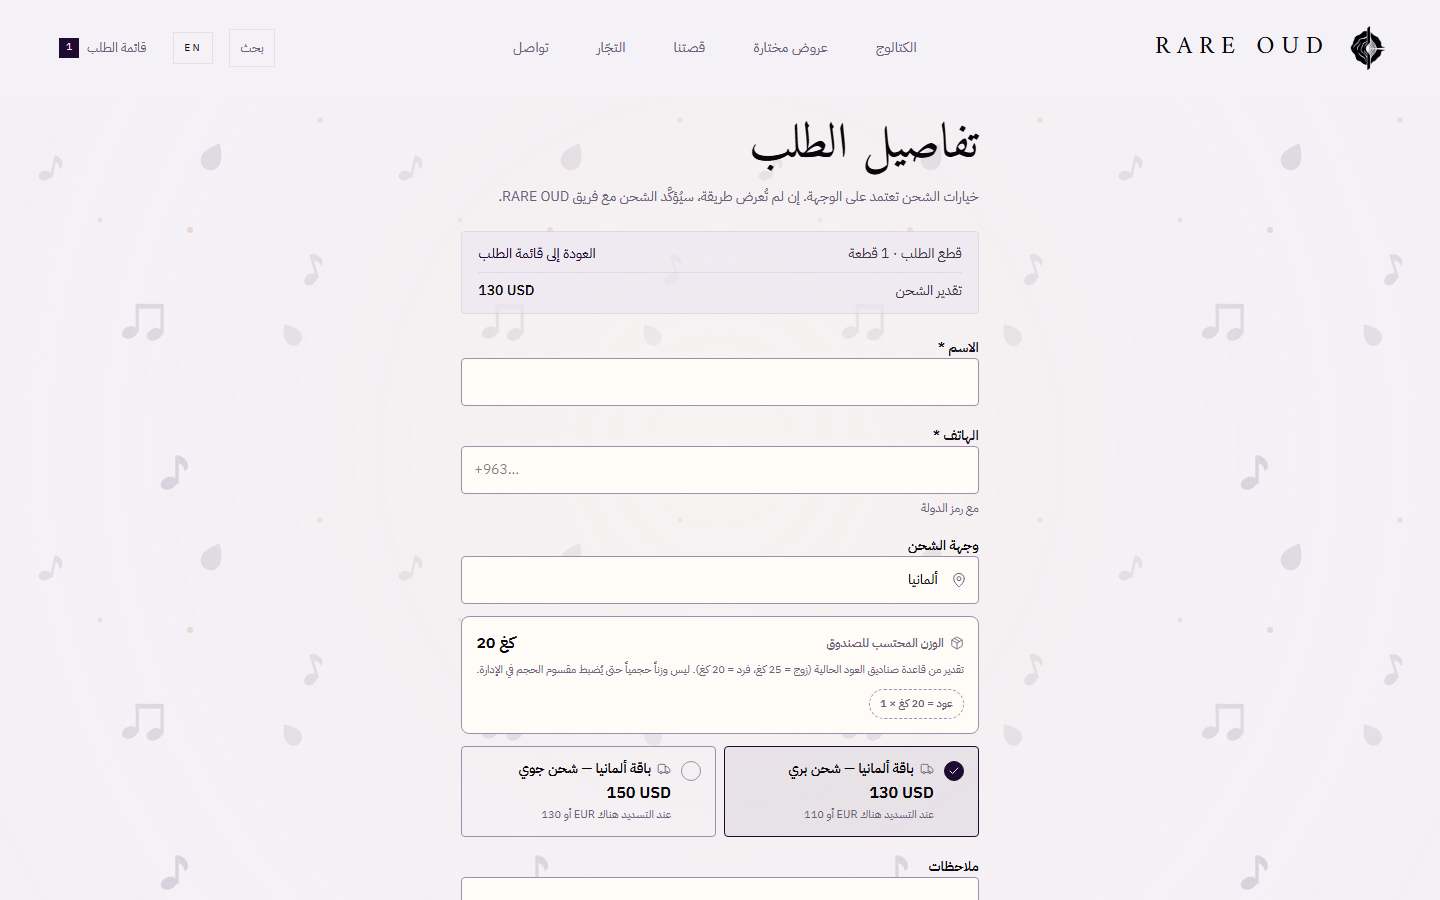
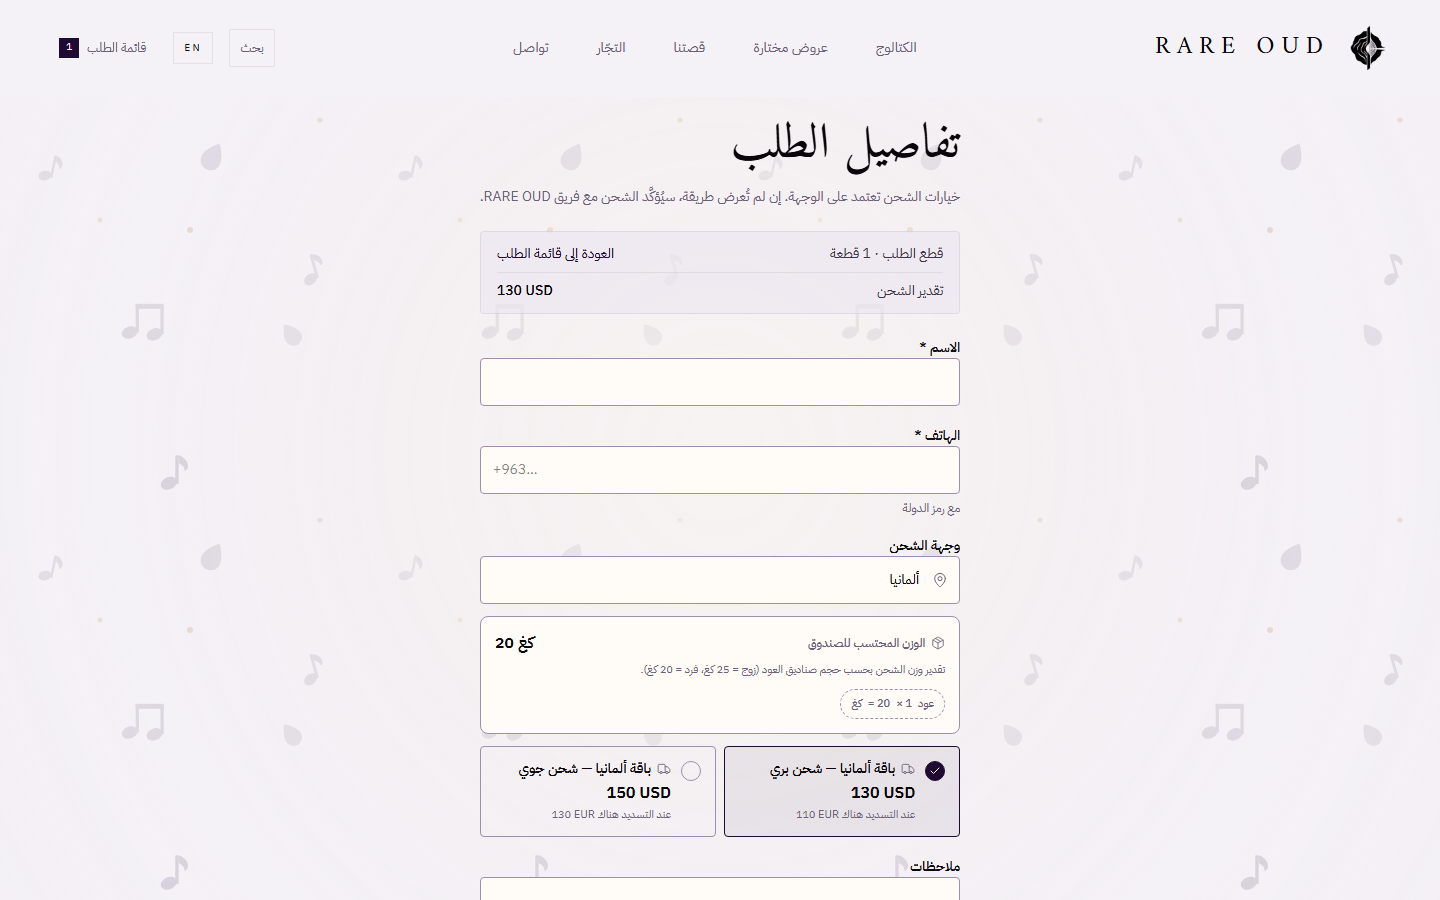
fix(shipping): pre-deploy 2a — neutral copy, bidi, short health SHA, quote security checks
Customer-facing weight help no longer mentions admin/config; alt-currency and 20 kg chips stay LTR-stable; /api/health exposes a 7-char SHA only; shipping-security-checks 12/12 PASS.

diff --git a/scripts/shipping-security-checks.ts b/scripts/shipping-security-checks.ts
@@ -1,0 +1,182 @@
+/**
+ * Public quote API security checks (Release 2a).
+ * Run: npx tsx scripts/shipping-security-checks.ts
+ * Expects PLAYWRIGHT_BASE_URL or http://127.0.0.1:3000
+ */
+const BASE = process.env.PLAYWRIGHT_BASE_URL || "http://127.0.0.1:3000";
+const URL = `${BASE}/api/shipping/quote`;
+
+type Check = { name: string; ok: boolean; detail: string };
+const results: Check[] = [];
+
+function note(name: string, ok: boolean, detail: string) {
+  results.push({ name, ok, detail });
+  console.log(`${ok ? "PASS" : "FAIL"}: ${name} — ${detail}`);
+}
+
+async function post(body: unknown, headers: Record<string, string> = {}) {
+  const res = await fetch(URL, {
+    method: "POST",
+    headers: { "Content-Type": "application/json", ...headers },
+    body: typeof body === "string" ? body : JSON.stringify(body),
+  });
+  const text = await res.text();
+  let json: unknown = null;
+  try {
+    json = JSON.parse(text);
+  } catch {
+    /* leave null */
+  }
+  return { status: res.status, text, json };
+}
+
+function hasLeak(text: string): boolean {
+  return (
+    /at\s+\w+\s+\(|node_modules|prisma\.|AUTH_SECRET|DATABASE_URL|stack|TypeError|PrismaClient/i.test(
+      text
+    ) || /"password"|"email"\s*:\s*"[^"]+@/.test(text)
+  );
+}
+
+async function main() {
+  // 1) invalid JSON / missing destination -> uniform 400
+  const badJson = await post("{");
+  note(
+    "invalid JSON -> 400 uniform",
+    badJson.status === 400 &&
+      typeof (badJson.json as { error?: string })?.error === "string" &&
+      !hasLeak(badJson.text),
+    `status=${badJson.status} body=${badJson.text.slice(0, 120)}`
+  );
+
+  const noDest = await post({ weightKg: 20 });
+  note(
+    "missing destination -> 400",
+    noDest.status === 400 &&
+      (noDest.json as { error?: string })?.error === "DESTINATION_REQUIRED" &&
+      !hasLeak(noDest.text),
+    `status=${noDest.status}`
+  );
+
+  const badWeight = await post({ destinationCode: "DE", weightKg: -1 });
+  note(
+    "negative weight -> 400",
+    badWeight.status === 400 && !hasLeak(badWeight.text),
+    `status=${badWeight.status}`
+  );
+
+  const hugeDest = await post({ destinationCode: "X".repeat(80), weightKg: 20 });
+  note(
+    "oversized destination -> 400",
+    hugeDest.status === 400 && !hasLeak(hugeDest.text),
+    `status=${hugeDest.status}`
+  );
+
+  // 2) items array size cap (50) — request with 60 items still 200/400 without leak
+  const manyItems = await post({
+    destinationCode: "DE",
+    items: Array.from({ length: 60 }, (_, i) => ({ productId: `p${i}`, qty: 1 })),
+  });
+  note(
+    "items array capped / no leak",
+    (manyItems.status === 200 || manyItems.status === 400) && !hasLeak(manyItems.text),
+    `status=${manyItems.status}`
+  );
+
+  // 3) happy path DE 20 — no unverified notebook flats
+  const okDe = await post({ destinationCode: "DE", weightKg: 20, audience: "CUSTOMER" });
+  const methods =
+    ((okDe.json as { methods?: { code: string; amount: number; currency: string }[] })
+      ?.methods ?? []);
+  const codes = methods.map((m) => m.code);
+  const hasNotebook = codes.some(
+    (c) =>
+      c.includes("LAND_") ||
+      c.includes("SHARJAH") ||
+      c.includes("MASRI") ||
+      c.includes("RAQI")
+  );
+  note(
+    "DE 20 public methods legacy only",
+    okDe.status === 200 &&
+      !hasNotebook &&
+      methods.some((m) => m.code.includes("germany:land") && m.amount === 130) &&
+      methods.some((m) => m.code.includes("germany:air") && m.amount === 150) &&
+      !hasLeak(okDe.text),
+    `codes=${codes.join(",")}`
+  );
+
+  // 4) notebook destination publicly must not expose unverified flats
+  for (const code of ["LB", "JO", "SA"] as const) {
+    const q = await post({ destinationCode: code, weightKg: 20, audience: "CUSTOMER" });
+    const ms =
+      ((q.json as { methods?: { code: string; amount: number }[] })?.methods ?? []);
+    const flatNotebook = ms.some((m) =>
+      /LAND_|SHARJAH|MASRI|RAQI/.test(m.code)
+    );
+    note(
+      `${code}: unverified notebook not public`,
+      q.status === 200 && !flatNotebook && !hasLeak(q.text),
+      `methods=${ms.map((m) => m.code).join(",") || "(none/inquiry)"}`
+    );
+  }
+
+  // 5) includeUnverified must be ignored if client tries to pass it
+  const sneak = await post({
+    destinationCode: "LB",
+    weightKg: 20,
+    audience: "CUSTOMER",
+    includeUnverified: true,
+  } as Record<string, unknown>);
+  const sneakMethods =
+    ((sneak.json as { methods?: { code: string }[] })?.methods ?? []);
+  note(
+    "client includeUnverified ignored",
+    sneak.status === 200 &&
+      !sneakMethods.some((m) => m.code.includes("LAND_PASSENGER")) &&
+      !hasLeak(sneak.text),
+    `methods=${sneakMethods.map((m) => m.code).join(",") || "(none)"}`
+  );
+
+  // 6) rate limit -> 429 (burst)
+  let hit429 = false;
+  let leakOn429 = false;
+  for (let i = 0; i < 70; i++) {
+    const r = await post(
+      { destinationCode: "DE", weightKg: 20 },
+      { "x-forwarded-for": "203.0.113.77" }
+    );
+    if (r.status === 429) {
+      hit429 = true;
+      if (hasLeak(r.text)) leakOn429 = true;
+      break;
+    }
+  }
+  note(
+    "rate limit returns 429",
+    hit429 && !leakOn429,
+    hit429 ? "got 429 without leak" : "did not hit 429 within 70 calls"
+  );
+
+  // 7) unknown country — uniform response, no enumeration of internals
+  const br = await post({ destinationCode: "BR", weightKg: 20 });
+  const brMethods = ((br.json as { methods?: unknown[] })?.methods ?? []).length;
+  note(
+    "unknown country uniform (no leak)",
+    br.status === 200 && brMethods === 0 && !hasLeak(br.text),
+    `status=${br.status} methods=${brMethods}`
+  );
+
+  const failed = results.filter((r) => !r.ok);
+  console.log("\n--- summary ---");
+  console.log(`passed ${results.length - failed.length}/${results.length}`);
+  if (failed.length) {
+    console.log("FAILED:", failed.map((f) => f.name).join("; "));
+    process.exit(1);
+  }
+}
+
+main().catch((e) => {
+  console.error(e);
+  process.exit(1);
+});

diff --git a/components/storefront/shipping-cost-selector.tsx b/components/storefront/shipping-cost-selector.tsx
@@ -104,8 +104,8 @@ export function ShippingCostSelector({
   const weightUnit = t(locale, "كغ", "kg");
   const weightHelp = t(
     locale,
-    "تقدير من قاعدة صناديق العود الحالية (زوج = 25 كغ، فرد = 20 كغ). ليس وزناً حجمياً حتى يُضبط مقسوم الحجم في الإدارة.",
-    "Estimate from the current oud-box rule (pair = 25 kg, single = 20 kg). Not volumetric until an admin sets a volumetric divisor."
+    "تقدير وزن الشحن بحسب حجم صناديق العود (زوج = 25 كغ، فرد = 20 كغ).",
+    "Shipping weight estimate based on oud box sizes (pair = 25 kg, single = 20 kg)."
   );
 
   function emit(nextMethodCode: string | null, list: QuoteMethod[] = options) {
@@ -232,11 +232,9 @@ export function ShippingCostSelector({
             <Package className="size-3.5" strokeWidth={1.5} aria-hidden />
             {weightTitle}
           </span>
-          <span className="text-base font-semibold tabular-nums text-ro-ink">
-            <bdi dir="ltr">
-              <AnimatedValue value={weightKg} durationMs={lite ? 1 : 550} />{" "}
-              {weightUnit}
-            </bdi>
+          <span className="text-base font-semibold tabular-nums text-ro-ink" dir="ltr">
+            <AnimatedValue value={weightKg} durationMs={lite ? 1 : 550} />
+            <span className="ms-1">{weightUnit}</span>
           </span>
         </div>
         <p className="mt-1.5 text-[11px] leading-relaxed text-ro-muted">{weightHelp}</p>
@@ -255,11 +253,12 @@ export function ShippingCostSelector({
                     delay: lite ? 0 : i * 0.05,
                     ease: [0.22, 1, 0.36, 1],
                   }}
-                  className="inline-flex items-center gap-1 rounded-[var(--ro-r-full)] border border-[var(--ro-border-control)] bg-ro-sunken px-2.5 py-1 text-[11px] font-medium tabular-nums text-ro-ink"
+                  className="inline-flex items-center gap-1.5 rounded-[var(--ro-r-full)] border border-[var(--ro-border-control)] bg-ro-sunken px-2.5 py-1 text-[11px] font-medium tabular-nums text-ro-ink"
                 >
-                  <bdi dir="ltr">
-                    2 × {t(locale, "عود", "oud")} = 25 {weightUnit}
-                  </bdi>
+                  <span>{t(locale, "عود", "oud")}</span>
+                  <span dir="ltr">× 2</span>
+                  <span dir="ltr">= 25</span>
+                  <span>{weightUnit}</span>
                 </m.span>
               ))}
               {boxes.remainder ? (
@@ -274,11 +273,12 @@ export function ShippingCostSelector({
                     delay: lite ? 0 : boxes.pairs * 0.05,
                     ease: [0.22, 1, 0.36, 1],
                   }}
-                  className="inline-flex items-center gap-1 rounded-[var(--ro-r-full)] border border-dashed border-[var(--ro-border-control)] px-2.5 py-1 text-[11px] font-medium tabular-nums text-ro-muted"
+                  className="inline-flex items-center gap-1.5 rounded-[var(--ro-r-full)] border border-dashed border-[var(--ro-border-control)] px-2.5 py-1 text-[11px] font-medium tabular-nums text-ro-muted"
                 >
-                  <bdi dir="ltr">
-                    1 × {t(locale, "عود", "oud")} = 20 {weightUnit}
-                  </bdi>
+                  <span>{t(locale, "عود", "oud")}</span>
+                  <span dir="ltr">× 1</span>
+                  <span dir="ltr">= 20</span>
+                  <span>{weightUnit}</span>
                 </m.span>
               ) : null}
             </AnimatePresence>
@@ -398,10 +398,9 @@ export function ShippingCostSelector({
                   </span>
                   {opt.alternate ? (
                     <span className="block text-[11px] text-ro-muted">
+                      {t(locale, "عند التسديد هناك", "or paid there")}{" "}
                       <bdi dir="ltr">
-                        {t(locale, "أو ", "or ")}
-                        {opt.alternate.amount} {opt.alternate.currency}{" "}
-                        {t(locale, "عند التسديد هناك", "paid there")}
+                        {opt.alternate.amount} {opt.alternate.currency}
                       </bdi>
                     </span>
                   ) : null}

diff --git a/lib/build-info.ts b/lib/build-info.ts
@@ -12,5 +12,6 @@ export function getBuildInfo(): { sha: string; builtAt: string } {
     process.env.RO_BUILD_TIME?.trim() ||
     process.env.BUILD_TIME?.trim() ||
     "unknown";
-  return { sha: sha.slice(0, 40), builtAt };
+  // Public health: short SHA only (no full commit hash).
+  return { sha: sha === "unknown" ? "unknown" : sha.slice(0, 7), builtAt };
 }

diff --git a/docs/shipping/WEIGHT-LABELS.md b/docs/shipping/WEIGHT-LABELS.md
@@ -9,9 +9,12 @@
 | Oud-box heuristic carts (storefront request, current trader wholesale picker) | **الوزن المحتسب للصندوق** | Billable box weight |
 | Everything else (generic / product weights later) | **الوزن المحتسب** | Billable weight |
 
-Unit suffix: **كغ** / **kg** (Western digits). Do not use «كيلو حجمي» / «vol. kg» in customer/trader surfaces while `ShippingConfig.volumetricDivisor` is null.
+Customer/trader help (neutral — no admin/config jargon):  
+«تقدير وزن الشحن بحسب حجم صناديق العود (زوج = 25 كغ، فرد = 20 كغ).»
 
-Admin fields that still say «حجمي» in config/rate editors refer to the future volumetric path; the divisor remains blank by default (MASTER-EXECUTION §1).
+Unit suffix: **كغ** / **kg** (Western digits). Do not use «كيلو حجمي» / «vol. kg» / «مقسوم» on storefront or trader surfaces.
+
+Admin-only screens may still expose the volumetric divisor field (blank by default — MASTER-EXECUTION §1).
 
 ## Formula (current)
 

diff --git a/docs/shipping/s2a/SECURITY-CHECKS.md b/docs/shipping/s2a/SECURITY-CHECKS.md
@@ -1,0 +1,20 @@
+# Shipping quote API — security checks (pre-deploy 2a)
+
+**Script:** `scripts/shipping-security-checks.ts`  
+**Target:** `POST /api/shipping/quote` (local `127.0.0.1:3000`)  
+**Result:** **12/12 PASS** (2026-11-13)
+
+| Check | Expected | Result |
+|---|---|---|
+| Invalid JSON | uniform 400, no stack | PASS |
+| Missing destination | 400 | PASS |
+| Negative weight | 400 | PASS |
+| Oversized destination string | 400 | PASS |
+| Items array / size caps | capped; no leak | PASS |
+| DE 20 kg public methods | legacy land+air only | PASS |
+| LB / JO / SA notebook flats | unverified → not public | PASS |
+| Client `includeUnverified` ignored | no unverified returned | PASS |
+| Rate limit | 429, no leak | PASS |
+| Unknown country | uniform empty/inquiry, no enum leak | PASS |
+
+No stack traces or PII observed in error bodies. Unverified rates never returned on the public path.

diff --git a/docs/shipping/STOP-2A.md b/docs/shipping/STOP-2A.md
@@ -65,7 +65,7 @@ ssh-ed25519 AAAAC3NzaC1lZDI1NTE5AAAAIMchRi0w514Fzdt6i/dreqovKxxLTRj0311JpUy6Uhmq
 ```
 
 File: `~/.ssh/id_ed25519_rareoud.pub`  
-**Add that single line** to the VPS deploy user’s `~/.authorized_keys` (same user you used for prior rareoud deploys). After that, deploy from this machine with that key.  
+**Add that single line** to the VPS deploy user’s `~/.ssh/authorized_keys` (same user you used for prior rareoud deploys). After that, deploy from this machine with that key.  
 Do not use alternate routes (Hostinger file panel, temporary passwords) for app deploys.
 
 (There is also `tenegta_vps_ed25519.pub` for other Hostinger work — **not** the rareoud deploy key.)
